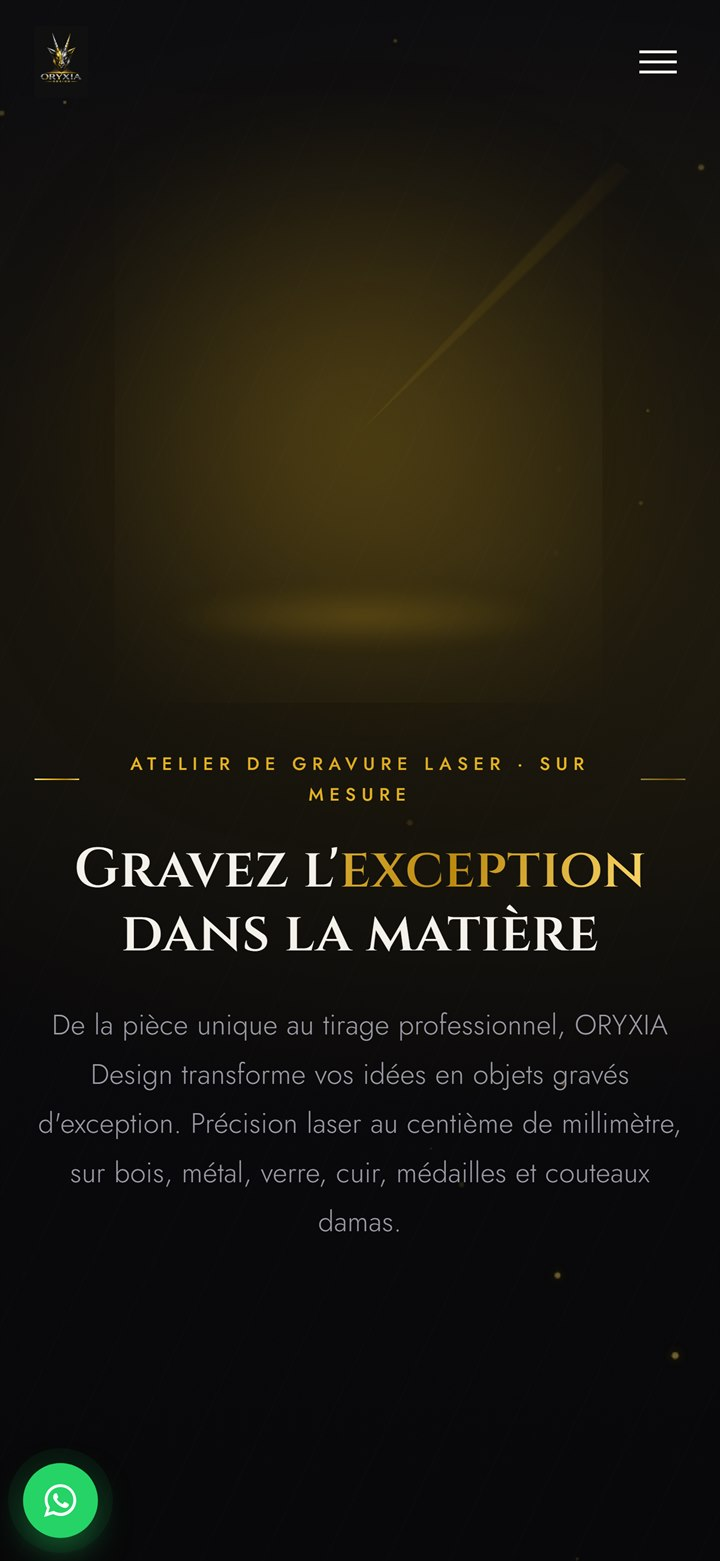
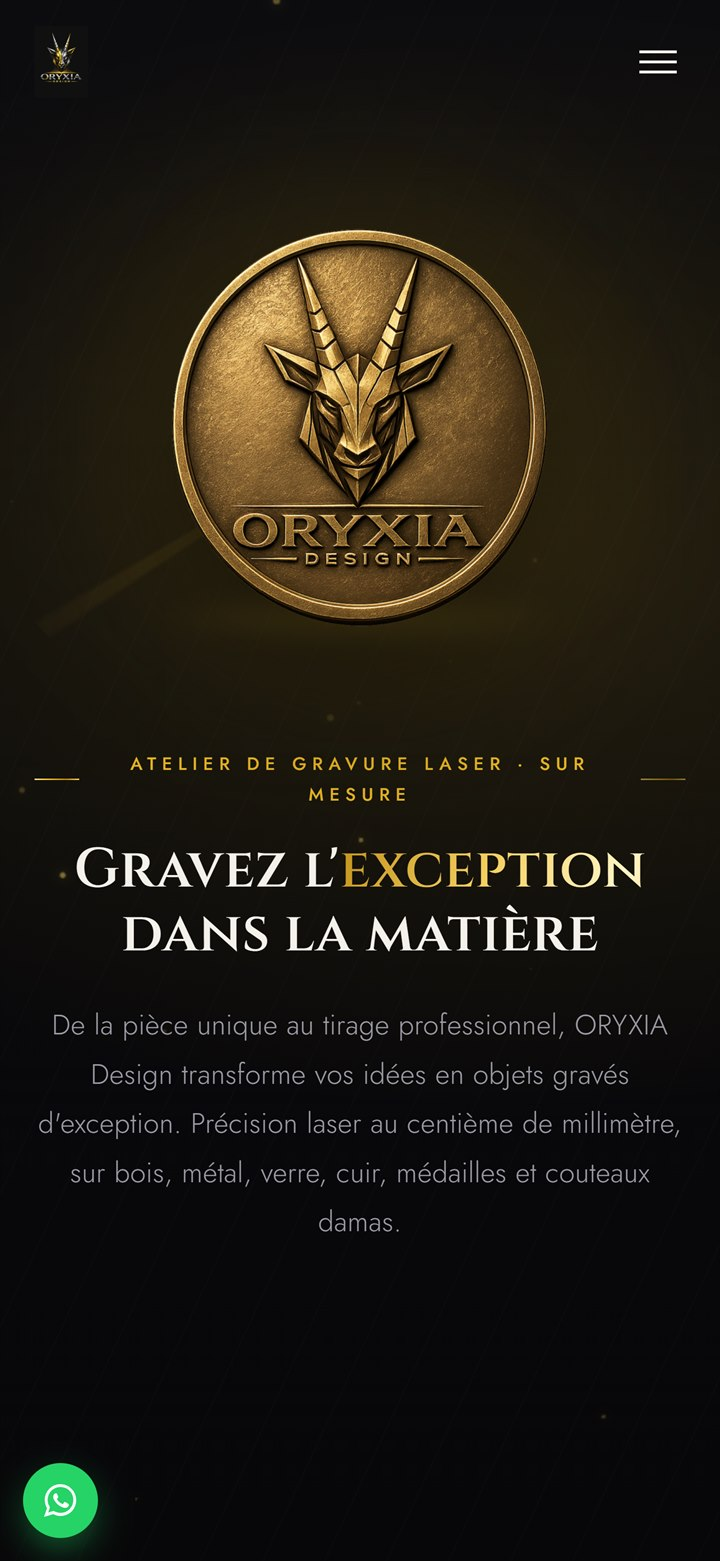
Fix apercu Oryxia mobile (piece WebGL) + anti-cache images
- Oryxia mobile : la piece (medaillon 3D/WebGL) ne se rendait pas en capture
  (--disable-gpu). Recapture avec WebGL (swiftshader) -> visuel complet.
- Anti-cache ?v=2 sur les images de la vitrine : meme nom de fichier, le
  navigateur servait l'ancienne version.

Claude-Session: https://claude.ai/code/session_0127Z73V9gsaBQEdmrtoZHUB

diff --git a/script.js b/script.js
@@ -439,9 +439,9 @@
     const showcase = document.querySelector("[data-showcase]");
     if (!showcase) return;
     const PROJECTS = [
-      { host: "crypto-nauts.com", url: "https://www.crypto-nauts.com", desktop: "img/cryptonauts-desktop.jpg", mobile: "img/cryptonauts-mobile.jpg", name: "Cryptonauts", kindKey: null, kindFr: "NFT · Crypto.com", descKey: "desc.crypto", descFr: "Collection NFT d'avatars d'astronautes, publiée sur la marketplace Crypto.com NFT." },
-      { host: "oryxia.be", url: "https://oryxia.be/", desktop: "img/oryxia-desktop.jpg", mobile: "img/oryxia-mobile.jpg", name: "Oryxia Design", kindKey: "kind.oryxia", kindFr: "Site web · Gravure laser", descKey: "desc.oryxia", descFr: "Site vitrine premium pour Oryxia Design, studio de gravure laser et création sur mesure." },
-      { host: "cronobots.github.io/TOUKIN", url: "https://cronobots.github.io/TOUKIN/", desktop: "img/toukin-desktop.jpg", mobile: "img/toukin-mobile.jpg", name: "Toukin Physiothérapie", kindKey: "kind.toukin", kindFr: "Site web · Physiothérapie", descKey: "desc.toukin", descFr: "Site vitrine pour un cabinet de physiothérapie à Tolochenaz." }
+      { host: "crypto-nauts.com", url: "https://www.crypto-nauts.com", desktop: "img/cryptonauts-desktop.jpg?v=2", mobile: "img/cryptonauts-mobile.jpg?v=2", name: "Cryptonauts", kindKey: null, kindFr: "NFT · Crypto.com", descKey: "desc.crypto", descFr: "Collection NFT d'avatars d'astronautes, publiée sur la marketplace Crypto.com NFT." },
+      { host: "oryxia.be", url: "https://oryxia.be/", desktop: "img/oryxia-desktop.jpg?v=2", mobile: "img/oryxia-mobile.jpg?v=2", name: "Oryxia Design", kindKey: "kind.oryxia", kindFr: "Site web · Gravure laser", descKey: "desc.oryxia", descFr: "Site vitrine premium pour Oryxia Design, studio de gravure laser et création sur mesure." },
+      { host: "cronobots.github.io/TOUKIN", url: "https://cronobots.github.io/TOUKIN/", desktop: "img/toukin-desktop.jpg?v=2", mobile: "img/toukin-mobile.jpg?v=2", name: "Toukin Physiothérapie", kindKey: "kind.toukin", kindFr: "Site web · Physiothérapie", descKey: "desc.toukin", descFr: "Site vitrine pour un cabinet de physiothérapie à Tolochenaz." }
     ];
     const q = (s) => showcase.querySelector(s);
     const elDesktop = q("[data-sc-desktop]"), elMobile = q("[data-sc-mobile]");

diff --git a/index.html b/index.html
@@ -356,12 +356,12 @@
                   <span class="browser-url" data-sc-url>crypto-nauts.com</span>
                 </div>
                 <div class="browser-screen">
-                  <img data-sc-desktop src="img/cryptonauts-desktop.jpg" alt="Cryptonauts — aperçu du projet" loading="lazy" />
+                  <img data-sc-desktop src="img/cryptonauts-desktop.jpg?v=2" alt="Cryptonauts — aperçu du projet" loading="lazy" />
                 </div>
               </div>
               <div class="phone" aria-hidden="true">
                 <div class="phone-screen">
-                  <img data-sc-mobile src="img/cryptonauts-mobile.jpg" alt="" />
+                  <img data-sc-mobile src="img/cryptonauts-mobile.jpg?v=2" alt="" />
                   <span class="phone-island"></span>
                   <span class="phone-gloss"></span>
                 </div>
